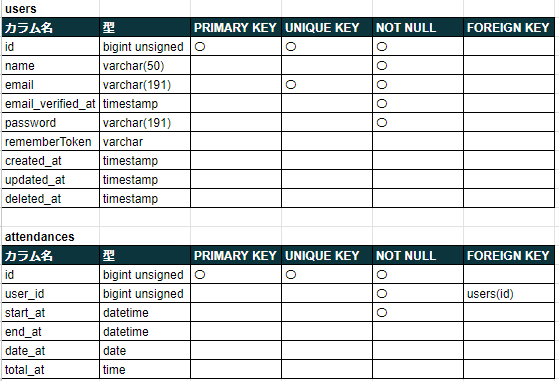
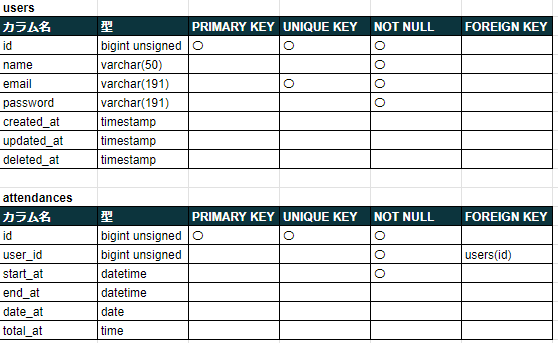
created readme

diff --git a/database/migrations/2014_10_12_000000_create_users_table.php b/database/migrations/2014_10_12_000000_create_users_table.php
@@ -15,9 +15,7 @@ return new class extends Migration
             $table->id();
             $table->string('name');
             $table->string('email')->unique();
-            // $table->timestamp('email_verified_at')->nullable();
             $table->string('password');
-            // $table->rememberToken();
             $table->timestamps();
             $table->softDeletes();
         });
